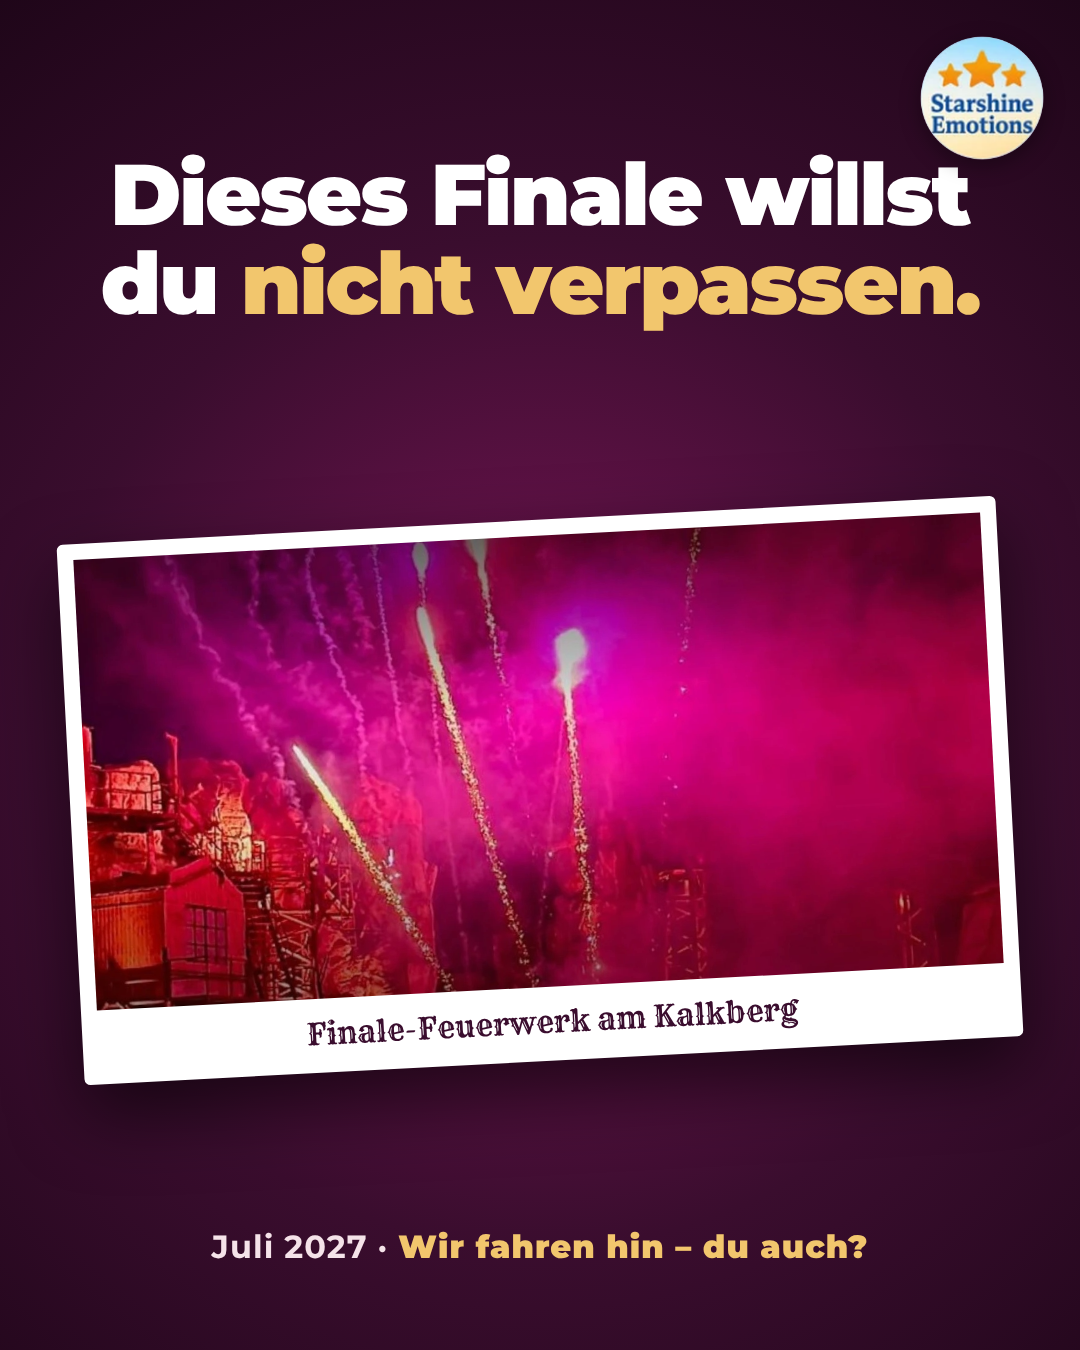
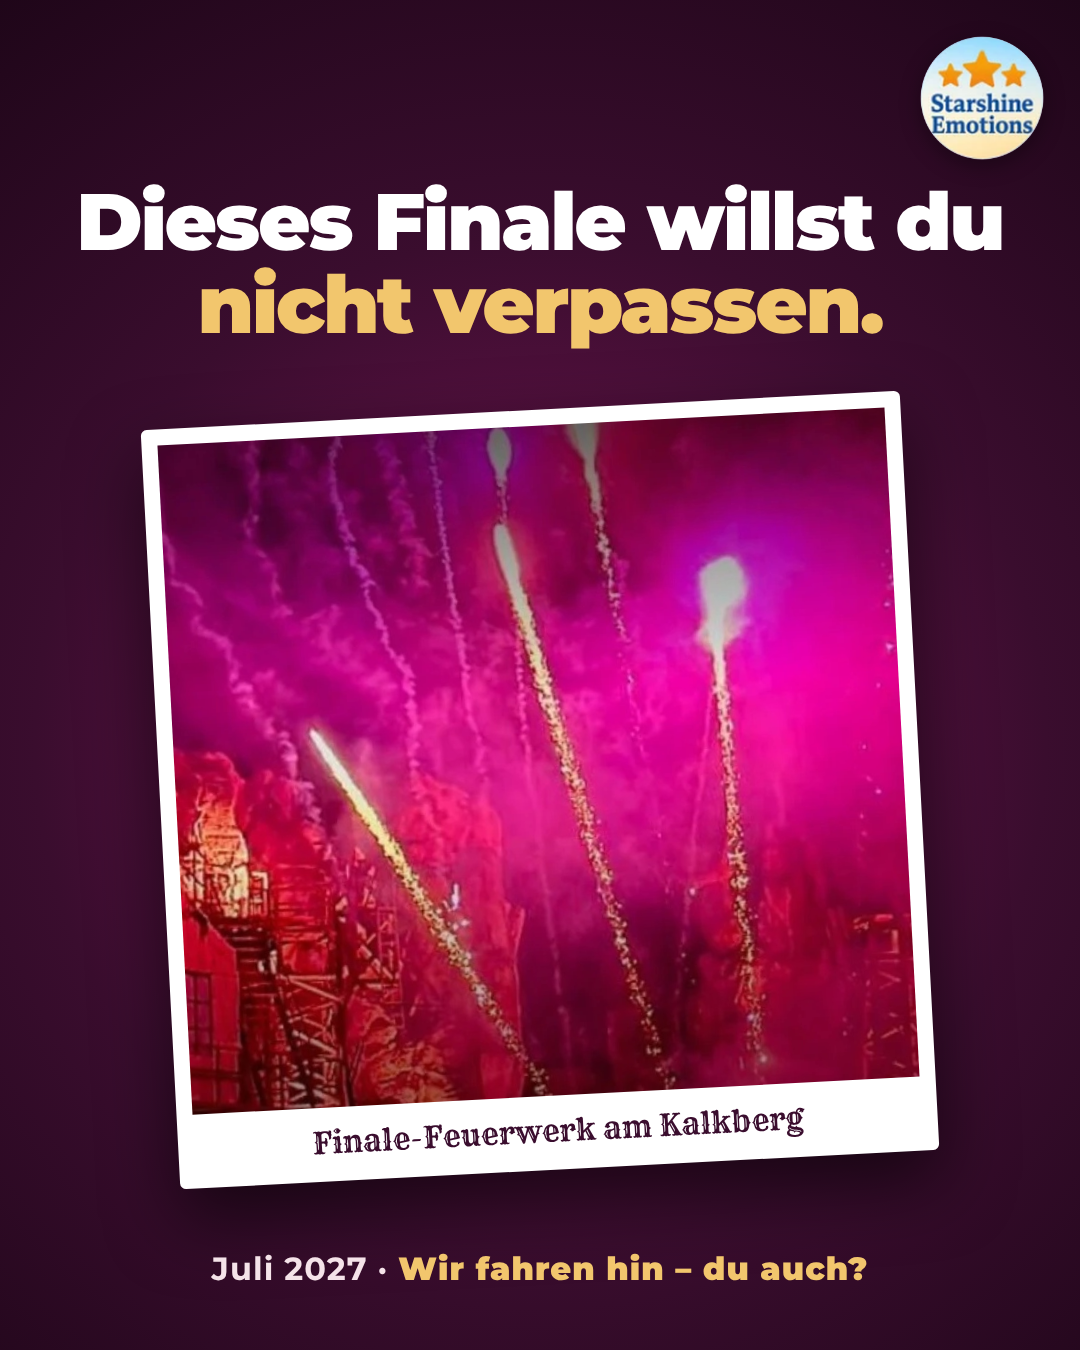
Make fireworks photo near-square and larger in Karl-May finale post
Claude-Session: https://claude.ai/code/session_01MYsT5PUrxmX4pbkuNXz2ag

diff --git a/creatives/organic/03-finale.html b/creatives/organic/03-finale.html
@@ -1,12 +1,12 @@
 <!doctype html><html><head><meta charset="utf-8"><link href="https://fonts.googleapis.com/css2?family=Rye&family=Montserrat:wght@500;600;700;800;900&display=swap" rel="stylesheet"><link rel="stylesheet" href="_base.css"><style>
 .ad{background:radial-gradient(circle at 50% 55%,#7a1557 0%,#3a0d2e 55%,#1f0619 100%)}
-.top{position:absolute;top:150px;left:60px;right:60px;text-align:center;color:#fff}
-.h{font-weight:900;font-size:86px;line-height:1.04;letter-spacing:-2px}
+.top{position:absolute;top:180px;left:60px;right:60px;text-align:center;color:#fff}
+.h{font-weight:900;font-size:80px;line-height:1.04;letter-spacing:-2px}
 .h em{font-style:normal;color:#F2C66D}
-.print{position:absolute;left:70px;top:520px;width:940px;padding:16px;background:#fff;border-radius:6px;transform:rotate(-3deg);box-shadow:0 30px 70px rgba(0,0,0,.6)}
-.print img{display:block;width:100%;height:auto}
+.print{position:absolute;left:160px;top:410px;width:760px;padding:16px;background:#fff;border-radius:6px;transform:rotate(-3deg);box-shadow:0 30px 70px rgba(0,0,0,.6)}
+.print img{display:block;width:100%;height:670px;object-fit:cover;object-position:28% 50%}
 .print .cap{font-family:Rye,serif;color:#3a0d2e;font-size:30px;text-align:center;padding:16px 0 4px}
-.bot{position:absolute;bottom:84px;width:100%;text-align:center;color:#F5E3E9;font-weight:700;font-size:32px;letter-spacing:1px}
+.bot{position:absolute;bottom:62px;width:100%;text-align:center;color:#F5E3E9;font-weight:700;font-size:32px;letter-spacing:1px}
 .bot b{color:#F2C66D}
 </style></head><body><div class="ad">
 <img class="logo" src="logo-starshine.png">
